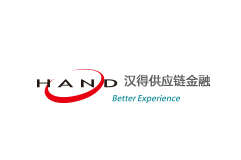
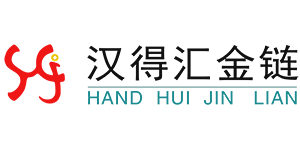
[IMP] 首页案例图片更换

Changed region(s): [[0.0, 0.2933, 1.0, 0.72]]

diff --git a/content/case-studies/handfinancial.md b/content/case-studies/handfinancial.md
@@ -2,7 +2,7 @@
 title: 汉得供应链金融
 date: "2017-12-01"
 type: "case-studies"
-banner: "img/case_studies/hand-financial2.jpg"
+banner: "img/case_studies/hand-financial.png"
 summary: "Choerodon为我们提供一整套DevOps和敏捷实施工具链，加速了我们交付的速度和提高了交付的质量。消除开发和运营的隔阂，使得我们团队能够同时兼顾开发和运营"
 weight: 4
 unfinshed: "true"

diff --git a/content/case-studies/zhishinet.md b/content/case-studies/zhishinet.md
@@ -2,7 +2,7 @@
 title: 芝士网
 date: "2017-12-01"
 type: "case-studies"
-banner: "img/case_studies/zhishinet2.jpg"
+banner: "img/case_studies/zhishinet.png"
 summary: "借助Choerodon，我们使用微服务框架重新塑造IT系统，并且对我们在DevOps实施落地、敏捷管理等方面提供很大的帮助，提高了芝士网对市场和需求反应的敏捷度"
 weight: 3
 unfinshed: "true"
